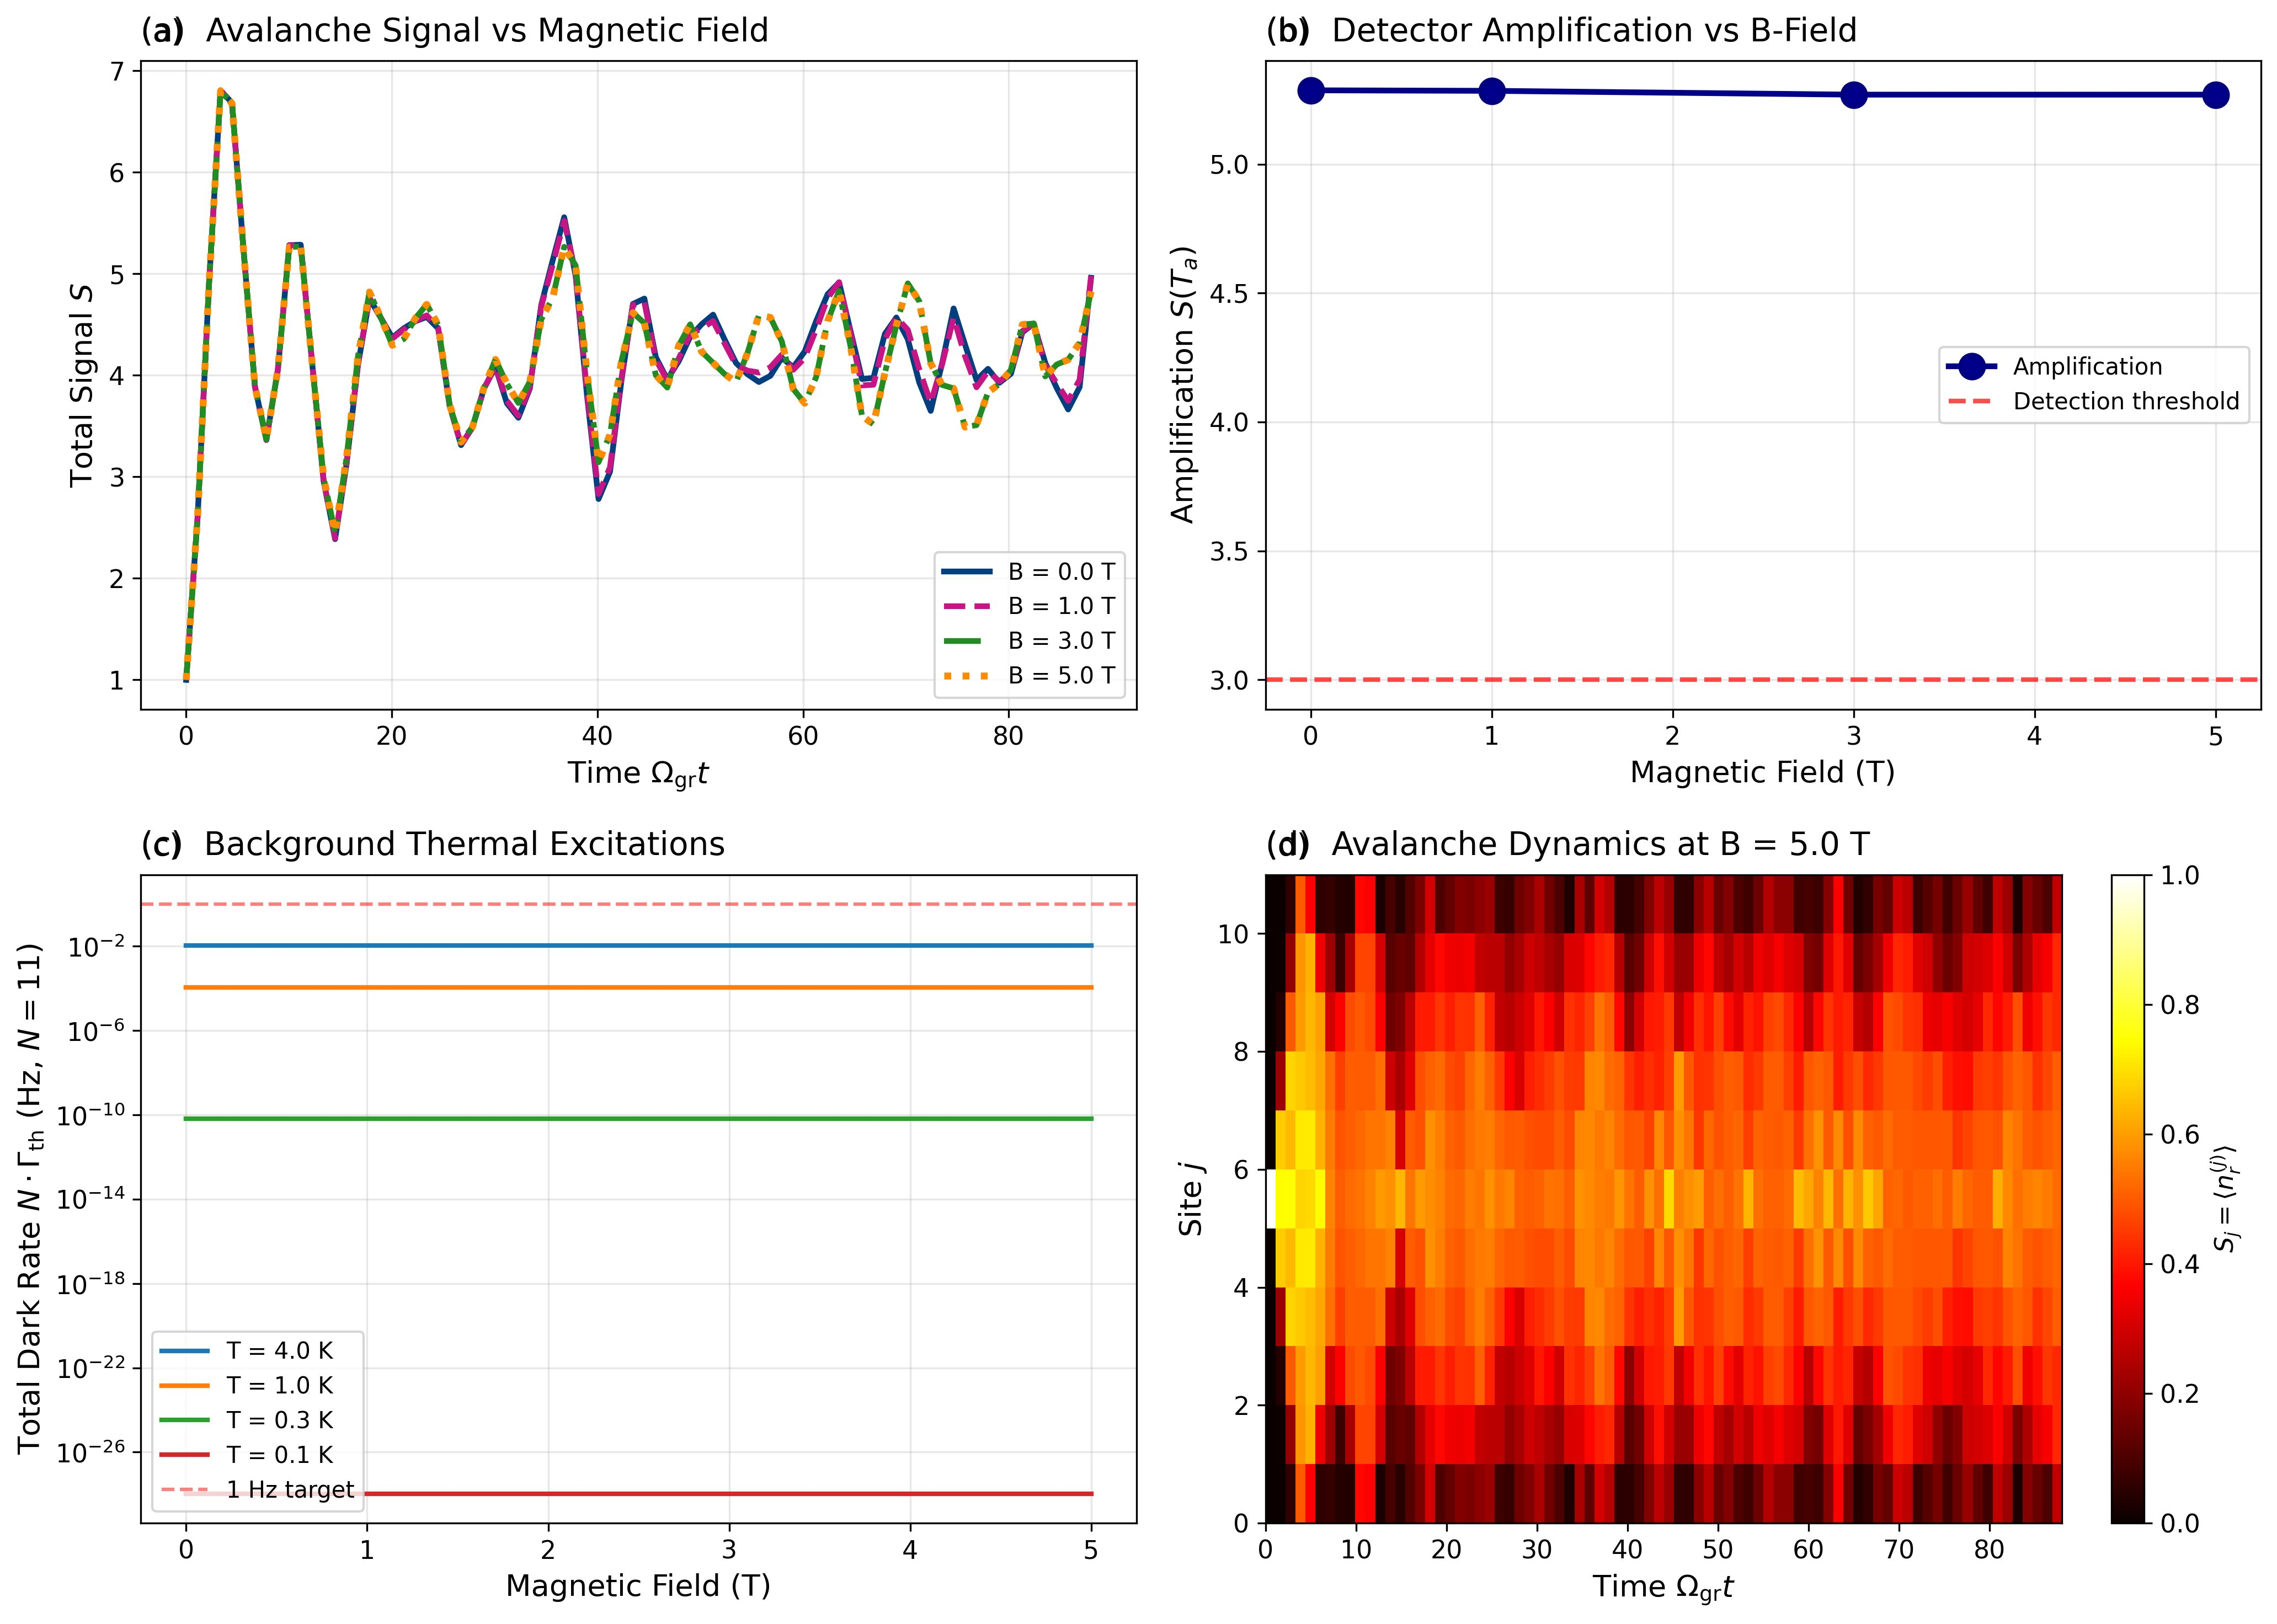
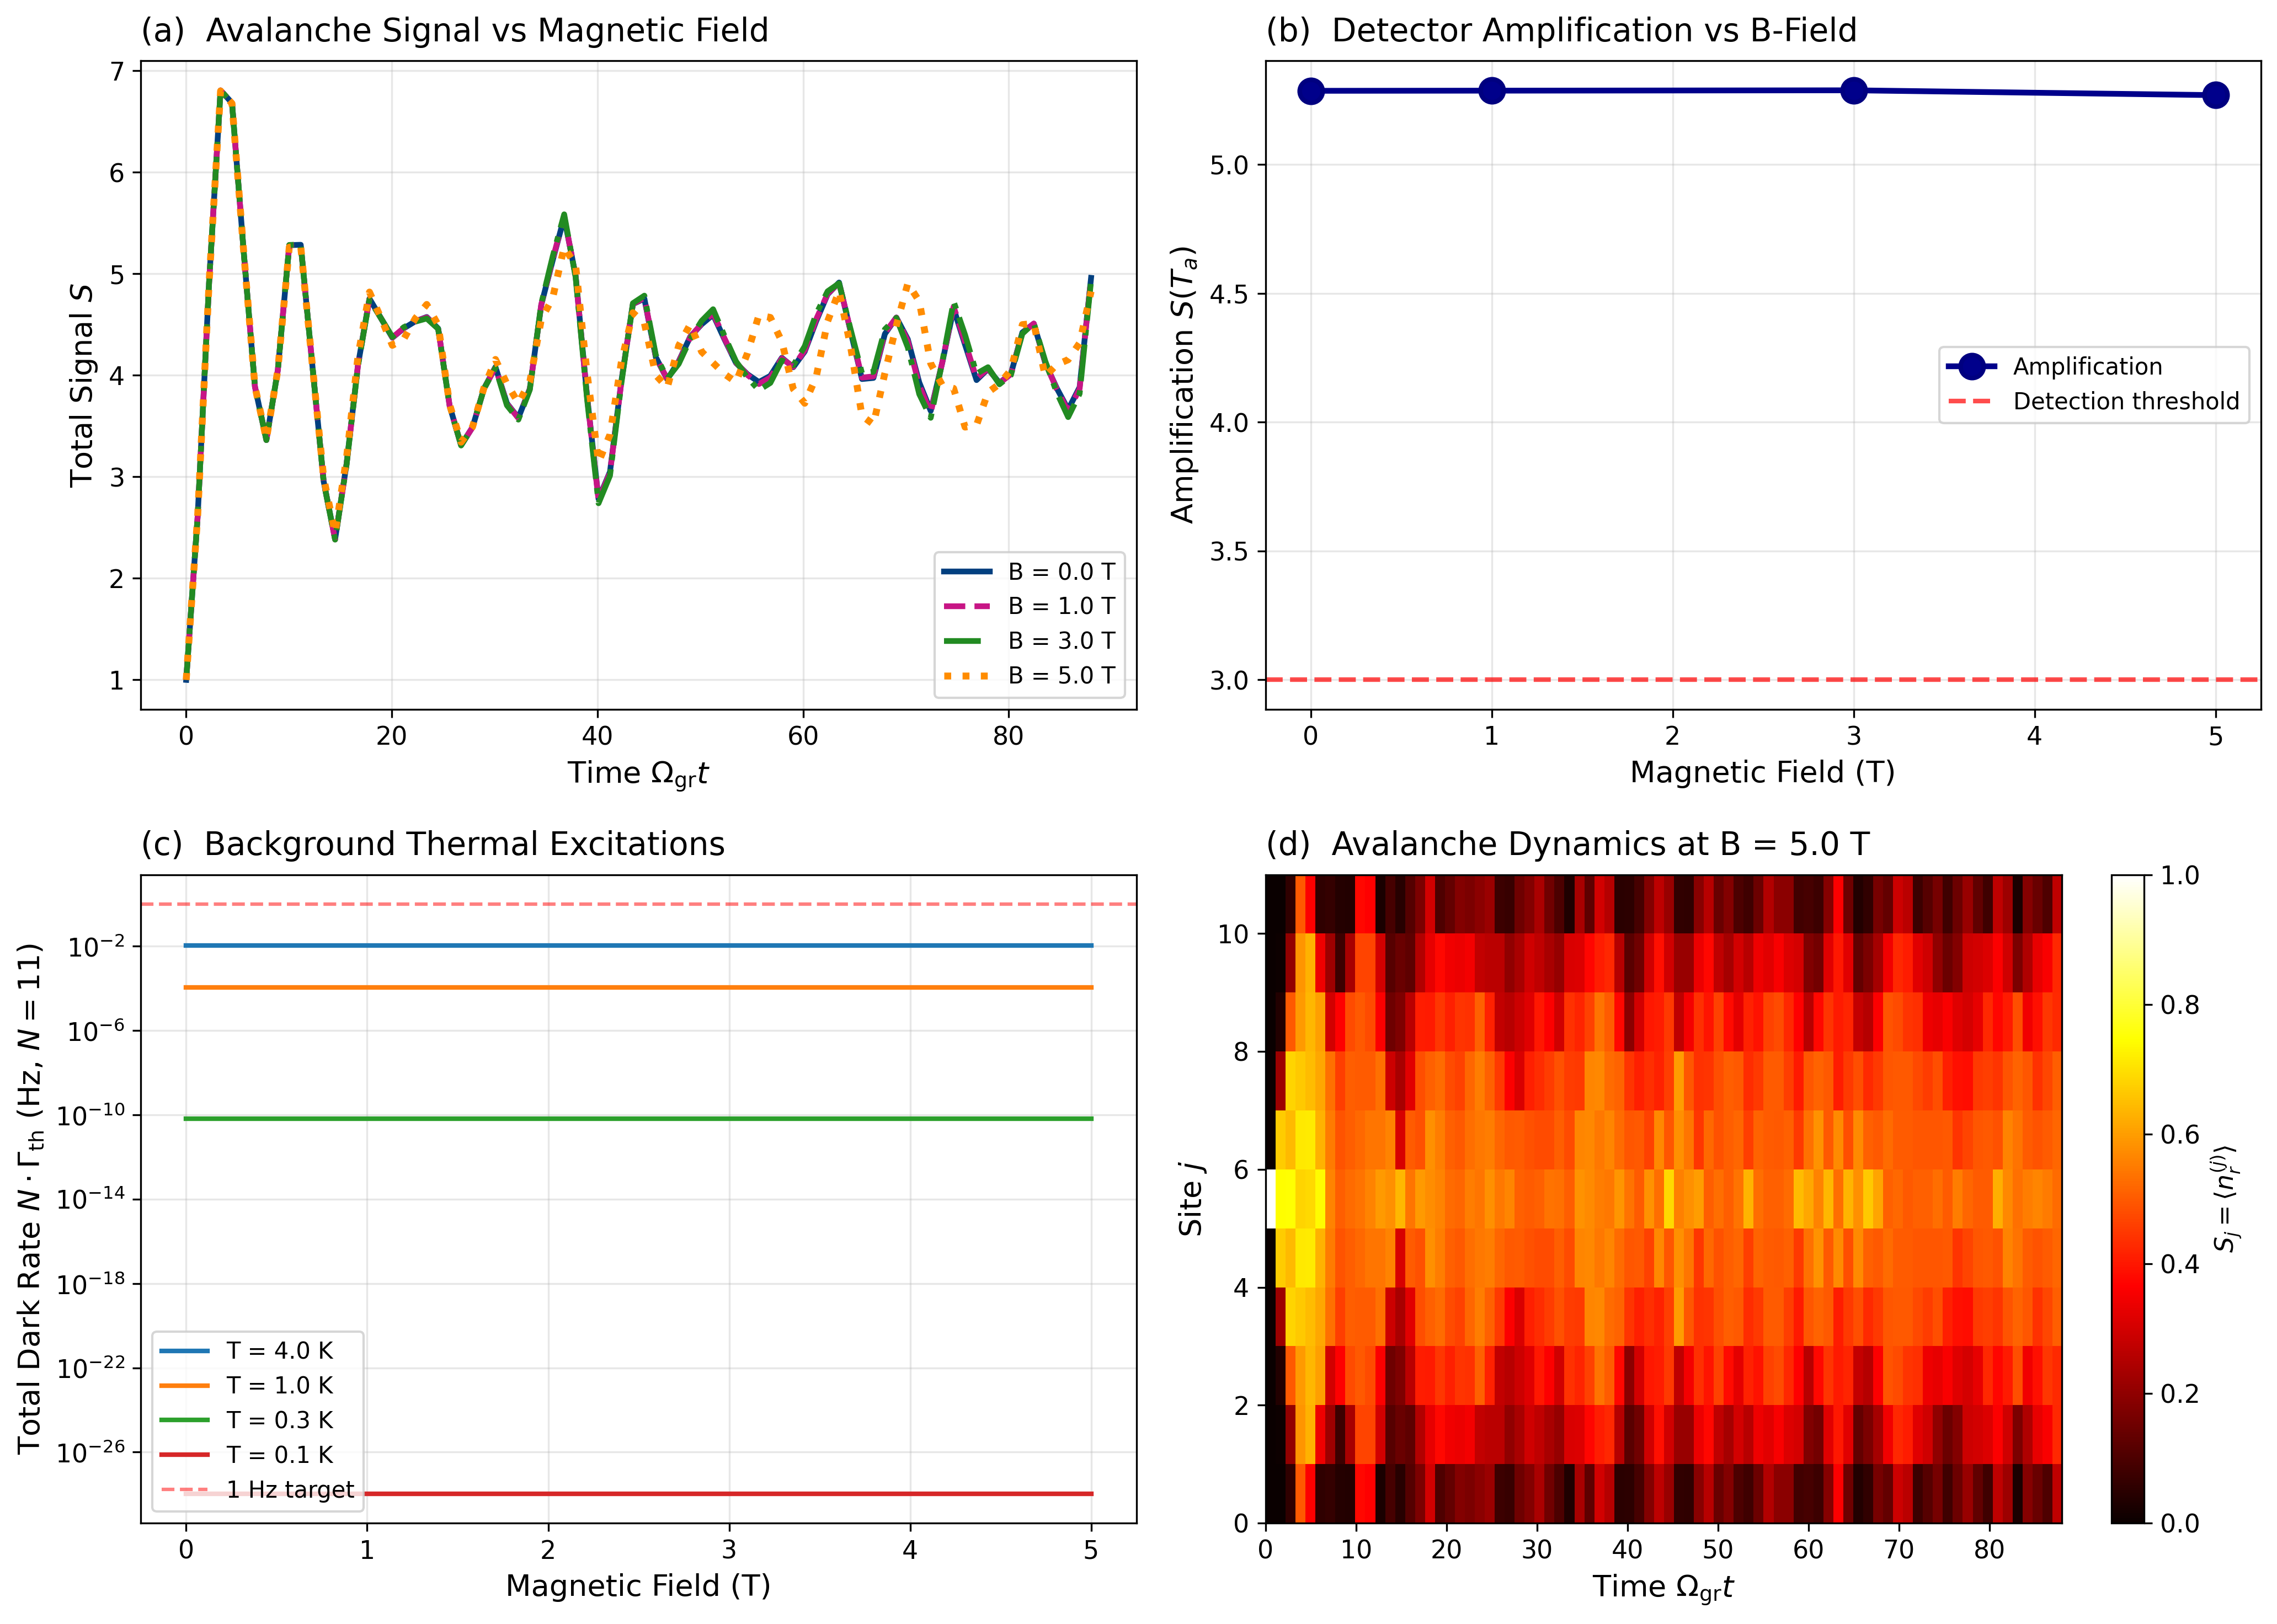
auto-detune Delta_gr = -V_rr in package; remove notebook monkey-patches
The package now implements the physical content of the manuscript
directly: the laser is treated as actively retuned to follow the
field-shifted |g>->|r> transition and offset by V_rr(B), so that in
the rotating frame of that auto-detuned laser the single-atom
detuning is

    Delta_gr(B) = -V_rr(B)

at every B, by construction. The single-atom Zeeman shifts of the
|r> and |e> levels are absorbed into the laser frequency and do not
appear in the rotating-frame Hamiltonian; the symbols zeeman_r and
zeeman_e are kept in MagneticRydbergSystem for diagnostic printout
only.

The previous implementation added (zeeman_r - zeeman_e) to Delta_gr,
which was incorrect on two counts:

  1. In a rotating-frame description the laser frequency is the zero
     of the detuning axis. If the laser tracks the Zeeman-shifted
     transition (as the manuscript explicitly states on line 615:
     'The detuning Delta_gr is automatically adjusted at each
     magnetic field to maintain the facilitation condition'), then
     the Zeeman shift is by definition not present in Delta_gr.

  2. The zeeman_r/zeeman_e quantities were computed in Hz whereas
     V_rr is built in rad/s (the convention sesolve expects), so the
     addition mixed units; the error was a factor of 2*pi.

Both defects yielded a non-zero facilitation residual
|Delta_gr + V_rr|/(2*pi) of order GHz at B = 5 T and prevented
sesolve from converging at the default integrator tolerance, which
[…]

diff --git a/3_qutip_simpulation_with_magnetic_field/axion_rydberg_package/code/axion_rydberg_detector_magnetic_field.py b/3_qutip_simpulation_with_magnetic_field/axion_rydberg_package/code/axion_rydberg_detector_magnetic_field.py
@@ -320,9 +320,31 @@ class RydbergAxionDetectorParams:
         mixing_factor = 1.0 - 0.05 * (B_field / 1.0)**2
         self.Omega_gr = self.Omega_gr_0 * max(mixing_factor, 0.7)
         
-        # Facilitation condition (modified by Zeeman shift)
-        zeeman_correction = self.mag_system.zeeman_r - self.mag_system.zeeman_e
-        self.Delta_gr = -self.V_rr + zeeman_correction
+        # Facilitation condition with auto-detuned laser.
+        #
+        # Physically the laser is locked (e.g. via a PDH lock on a
+        # Zeeman-tracked atomic or cavity reference) to follow the
+        # field-shifted |g> -> |r> transition and is offset by V_rr(B).
+        # In the rotating frame of that auto-detuned laser, the
+        # single-atom detuning therefore reduces to
+        #
+        #     Delta_gr(B) = -V_rr(B)                                  (*)
+        #
+        # so that the facilitation condition Delta_gr + V_rr = 0 is
+        # exactly preserved at every B by construction. The
+        # single-atom Zeeman shifts (zeeman_r, zeeman_e in
+        # MagneticRydbergSystem) are absorbed into the laser
+        # frequency and do not enter the rotating-frame Hamiltonian.
+        #
+        # Note: the previous version of this code added (zeeman_r -
+        # zeeman_e) to Delta_gr, which was incorrect on two counts.
+        # First, in a rotating-frame description the laser frequency
+        # is the zero of the detuning axis; if the laser tracks the
+        # shifted transition, the Zeeman shift is by definition not
+        # present in Delta_gr. Second, zeeman_r/zeeman_e were
+        # computed in Hz whereas V_rr is built in rad/s, so the
+        # addition mixed units. Both defects are removed here.
+        self.Delta_gr = -self.V_rr
         
         # Optimal amplification time
         self.T_a_optimal = self.N / self.Omega_gr
@@ -352,14 +374,16 @@ class RydbergAxionDetectorParams:
         print(f"  Field-modified interactions:")
         print(f"    V_rr(B)/(2π) = {self.V_rr/(2*np.pi)/1e6:.3f} MHz")
         print(f"    Suppression: {100*(1-self.V_rr/self.V_rr_0):.1f}%")
-        print(f"\n  Zeeman shifts:")
+        print(f"\n  Zeeman shifts (single-atom, informational only --")
+        print(f"  absorbed into the laser frequency by the auto-detuning,")
+        print(f"  not entering the rotating-frame Hamiltonian):")
         print(f"    |r⟩ shift = {self.mag_system.zeeman_r/1e6:.3f} MHz")
         print(f"    |e⟩ shift = {self.mag_system.zeeman_e/1e6:.3f} MHz")
-        print(f"\n  Laser parameters:")
+        print(f"\n  Laser parameters (rotating frame):")
         print(f"    Ω_gr/(2π) = {self.Omega_gr/(2*np.pi)/1e6:.3f} MHz")
         print(f"    Δ_gr/(2π) = {self.Delta_gr/(2*np.pi)/1e6:.3f} MHz")
-        print(f"  Facilitation check:")
-        print(f"    Δ_gr + V_rr = {(self.Delta_gr + self.V_rr)/1e6:.3f} MHz")
+        print(f"  Facilitation check (must be ~ 0):")
+        print(f"    (Δ_gr + V_rr)/(2π) = {(self.Delta_gr + self.V_rr)/(2*np.pi)/1e6:.3e} MHz")
         print(f"\n  Performance:")
         print(f"    T_a = {self.T_a_optimal*1e6:.2f} μs")
         print(f"    Dark rate per atom  = {self.dark_rate_per_atom:.2e} Hz")